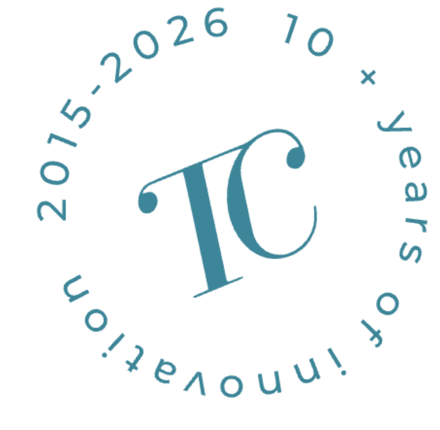
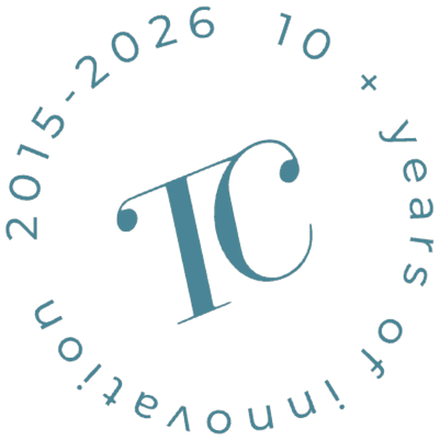
Align journey and video cards and centre the rotating seal
Remove the staggered offsets on the journey steps and TikTok cards so
each row shares one top edge, and re-centre the TC seal artwork on a
square canvas so it spins around its true centre.

Claude-Session: https://claude.ai/code/session_017rqZkzikJJSr9R8hay5qa1

diff --git a/css/style.css b/css/style.css
@@ -167,7 +167,7 @@ p { margin: 0 0 1em; }
 .hero__proc { position: absolute; left: calc(44% + 25.9cqh - 56px); top: 9%; z-index: 3; width: 170px; padding: 7px; border-radius: var(--r-lg); background: var(--white); box-shadow: var(--sh-lift); transform: rotate(4deg); }
 .hero__proc img { border-radius: calc(var(--r-lg) - 7px); aspect-ratio: 4 / 5; object-fit: cover; width: 100%; }
 .hero__proc figcaption { padding: 8px 6px 2px; font-size: 12.5px; font-weight: 700; color: var(--ink); }
-.hero__seal { position: absolute; left: 8%; bottom: 2%; width: 150px; height: auto; z-index: 1; opacity: .9; animation: spin 40s linear infinite; }
+.hero__seal { position: absolute; left: 8%; bottom: 2%; width: 150px; height: 150px; object-fit: contain; transform-origin: 50% 50%; z-index: 1; opacity: .9; animation: spin 40s linear infinite; }
 @keyframes spin { to { transform: rotate(360deg); } }
 .hero__copy { max-width: 600px; }
 .hero__kicker { font-weight: 700; color: var(--lagoon-deep); margin-bottom: 18px; font-size: 16px; }
@@ -302,7 +302,6 @@ p { margin: 0 0 1em; }
 .vtest__head p { margin: 0; max-width: 46ch; font-size: 18px; }
 .vtest__grid { display: grid; grid-template-columns: repeat(3, minmax(0, 340px)); justify-content: center; gap: 28px; }
 .vt { min-width: 0; }
-.vt:nth-child(2) { transform: translateY(36px); }
 .vt__link { display: inline-block; margin-top: 12px; font-size: 14px; font-weight: 700; color: #CDE7EE; text-decoration: underline; text-underline-offset: 3px; }
 .vt__link:hover { color: var(--white); }
 .vt__frame { position: relative; aspect-ratio: 9 / 16; border-radius: var(--r-lg); overflow: hidden; background: linear-gradient(160deg, #3E4B50, #263034); border: 6px solid rgba(255, 255, 255, .92); box-shadow: 0 30px 60px -28px rgba(0, 0, 0, .7); }
@@ -454,7 +453,6 @@ button.vt__frame { display: block; width: 100%; padding: 0; cursor: pointer; }
 }
 .journey__track::-webkit-scrollbar { display: none; }
 .step { flex: 0 0 clamp(280px, 30vw, 380px); scroll-snap-align: start; border-radius: var(--r-xl); background: var(--white); overflow: hidden; box-shadow: var(--sh-soft); display: flex; flex-direction: column; }
-.step:nth-child(even) { margin-top: 48px; }
 .step img { aspect-ratio: 4 / 3; object-fit: cover; width: 100%; }
 .step__body { position: relative; padding: 38px 26px 28px; }
 .step__n { position: absolute; top: -30px; left: 22px; width: 58px; height: 58px; border-radius: 50%; display: grid; place-items: center; font: 500 26px var(--f-display); color: var(--white); background: var(--grad-cta); border: 5px solid var(--white); }
@@ -494,7 +492,7 @@ button.vt__frame { display: block; width: 100%; padding: 0; cursor: pointer; }
 .doctor { padding: var(--sec-y) 0 calc(var(--sec-y) * .7); background: linear-gradient(180deg, var(--mist) 0%, var(--haze) 100%); overflow: hidden; }
 .doctor__grid { display: grid; grid-template-columns: 1fr 1fr; gap: clamp(40px, 7vw, 110px); align-items: center; }
 .doctor__media { position: relative; padding: 0 70px 110px 0; }
-.doctor__seal { position: absolute; right: 0; bottom: 40px; width: 170px; height: auto; padding: 16px; border-radius: 50%; background: var(--white); box-shadow: var(--sh-lift); animation: spin 40s linear infinite; }
+.doctor__seal { position: absolute; right: 0; bottom: 40px; width: 170px; height: 170px; aspect-ratio: 1; object-fit: contain; transform-origin: 50% 50%; padding: 16px; border-radius: 50%; background: var(--white); box-shadow: var(--sh-lift); animation: spin 40s linear infinite; }
 .doctor__main { border-radius: var(--r-xl) var(--r-xl) var(--r-xl) 120px; overflow: hidden; box-shadow: var(--sh-lift); background: var(--white); }
 .doctor__main img { width: 100%; aspect-ratio: 1000 / 1083; object-fit: cover; }
 .doctor__sat { position: absolute; left: -24px; bottom: 0; width: 38%; border-radius: var(--r-lg); overflow: hidden; border: 6px solid var(--white); box-shadow: var(--sh-float); }
@@ -636,7 +634,6 @@ button.vt__frame { display: block; width: 100%; padding: 0; cursor: pointer; }
 
 @media (max-width: 1100px) {
   .vtest__grid { grid-template-columns: repeat(3, minmax(0, 1fr)); gap: 18px; }
-  .vt:nth-child(2) { transform: none; }
   .ba-card { flex-basis: calc(50% - 14px); }
   .whyfue__grid { grid-template-columns: 1fr; }
   .hero__in { grid-template-columns: minmax(0, 1fr) minmax(0, .9fr); }
@@ -681,7 +678,7 @@ button.vt__frame { display: block; width: 100%; padding: 0; cursor: pointer; }
   .hero__proc { width: 104px; left: calc(46% + 26.4cqh - 44px); top: 5%; padding: 5px; }
   .hero__proc figcaption { display: none; }
   .hero__video { left: 46%; }
-  .hero__seal { width: 92px; left: 4px; bottom: 4%; }
+  .hero__seal { width: 92px; height: 92px; left: 4px; bottom: 4%; }
   .hero h1 { font-size: clamp(34px, 8.6vw, 46px); }
   .hero__sub { font-size: 18px; }
   .hero__actions .btn { flex: 1 1 100%; }
@@ -710,10 +707,9 @@ button.vt__frame { display: block; width: 100%; padding: 0; cursor: pointer; }
   .review { width: 300px; }
   .doctor__media { padding: 0 40px 120px 0; }
   .doctor__sat { left: 0; }
-  .doctor__seal { width: 120px; padding: 10px; }
+  .doctor__seal { width: 120px; height: 120px; padding: 10px; }
   .intro__card { right: 0; width: 260px; }
   .journey__head h2 { max-width: none; }
-  .step:nth-child(even) { margin-top: 0; }
 }
 
 @media (max-width: 560px) {
@@ -841,7 +837,7 @@ button.vt__frame { display: block; width: 100%; padding: 0; cursor: pointer; }
 
   .doctor__grid { gap: 28px; }
   .doctor__media { padding: 0 24px 90px 0; }
-  .doctor__seal { width: 110px; bottom: 20px; }
+  .doctor__seal { width: 110px; height: 110px; bottom: 20px; }
   .timeline { margin: 22px 0 26px; }
   .logos { display: grid; grid-template-columns: repeat(3, 1fr); gap: 10px; margin-top: 40px; padding: 16px; border-radius: var(--r-lg); }
   .logos li { padding: 4px; }

diff --git a/index.html b/index.html
@@ -131,7 +131,7 @@
     </div>
 
     <div class="hero__stage">
-      <img class="hero__seal" src="img/tc-seal.webp" alt="" width="440" height="430" aria-hidden="true">
+      <img class="hero__seal" src="img/tc-seal.webp" alt="" width="440" height="440" aria-hidden="true">
       <button class="hero__video" type="button" data-video aria-label="Play Dave's hair transplant story with sound">
         <video src="media/hero-loop.mp4" poster="img/hero-video-poster.webp" autoplay muted loop playsinline preload="auto" aria-hidden="true"></video>
         <span class="hero__video-cap"><strong>Watch Dave's story</strong><span>Filmed on his surgery day</span>
@@ -499,7 +499,7 @@
       <figure class="doctor__sat parallax" data-speed="0.06">
         <img src="img/dr-khalil-desk.webp" alt="Dr Khalil at the reception of Tajmeel Clinic" width="800" height="1200" loading="lazy">
       </figure>
-      <img class="doctor__seal" src="img/tc-seal.webp" alt="" width="440" height="430" aria-hidden="true" loading="lazy">
+      <img class="doctor__seal" src="img/tc-seal.webp" alt="" width="440" height="440" aria-hidden="true" loading="lazy">
     </div>
     <div class="doctor__copy">
       <h2 id="doctor-title">Meet Dr Mohamad Khalil</h2>
